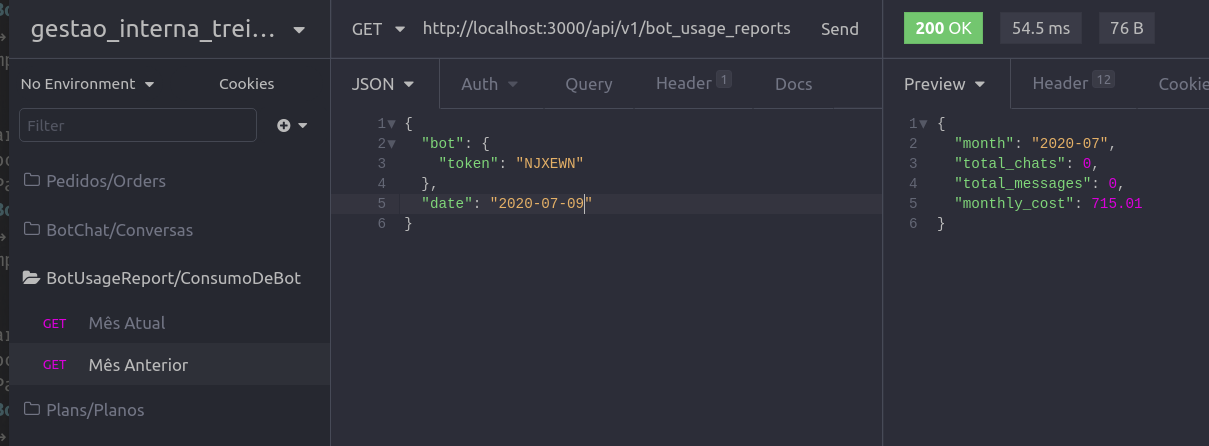
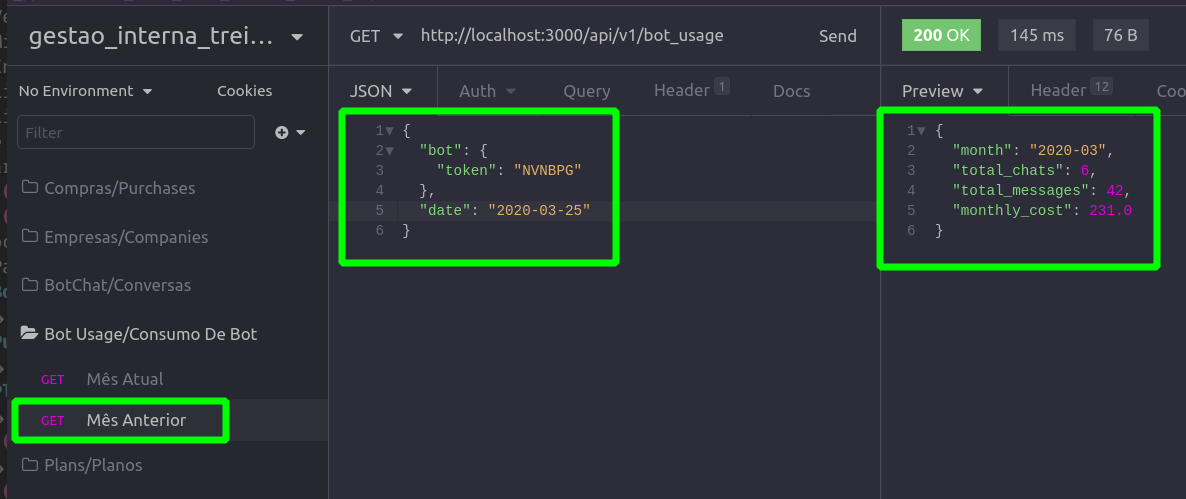
Primeiro review do João.

diff --git a/spec/requests/bot_usage_api_spec.rb b/spec/requests/bot_usage_api_spec.rb
@@ -6,7 +6,7 @@ describe 'User require Bot usage' do
       bot = create(:bot, created_at: 1.day.ago)
       create_list(:bot_chat, 5, :end_conversation, bot: bot, message_count: 3)
 
-      get api_v1_bot_usage_reports_path, params: { bot: { token: bot.token } }
+      get api_v1_bot_usage_path, params: { bot: { token: bot.token } }
 
       json_response = JSON.parse(response.body, symbolize_names: true)
       expect(response).to have_http_status(:ok)
@@ -23,7 +23,7 @@ describe 'User require Bot usage' do
       bot = create(:bot, purchase: purchase, created_at: 1.day.ago)
       create_list(:bot_chat, 4, :end_conversation, bot: bot, message_count: 3)
 
-      get api_v1_bot_usage_reports_path, params: { bot: { token: bot.token } }
+      get api_v1_bot_usage_path, params: { bot: { token: bot.token } }
 
       json_response = JSON.parse(response.body, symbolize_names: true)
       expect(response).to have_http_status(:ok)
@@ -36,21 +36,21 @@ describe 'User require Bot usage' do
     it 'can recieve a date param a generate a report for that month' do
       plan = create(:plan, limit_monthly_chat: 3, limit_monthly_messages: 4,
                            extra_chat_price: 5, extra_message_price: 3.5,
-                           created_at: 2.years.ago)
-      create(:plan_price, plan: plan, created_at: 2.years.ago, value: 83.00)
-      purchase = create(:purchase, plan: plan, created_at: 1.year.ago)
-      bot = create(:bot, purchase: purchase, created_at: 1.year.ago)
+                           created_at: '2020-02-01')
+      create(:plan_price, plan: plan, created_at: '2020-02-09', value: 83.00)
+      purchase = create(:purchase, plan: plan, created_at: '2020-02-10')
+      bot = create(:bot, purchase: purchase, created_at: '2020-02-10')
       create_list(:bot_chat, 6, :end_conversation, bot: bot, message_count: 7,
-                                                   created_at: 11.months.ago)
+                                                   created_at: '2020-03-10')
 
-      get api_v1_bot_usage_reports_path, params: {
+      get api_v1_bot_usage_path, params: {
         bot: { token: bot.token },
-        date: 11.months.ago
+        date: '2020-03-25'
       }
 
       json_response = JSON.parse(response.body, symbolize_names: true)
       expect(response).to have_http_status(:ok)
-      expect(json_response[:month]).to eq(11.months.ago.strftime('%Y-%m'))
+      expect(json_response[:month]).to eq('2020-03')
       expect(json_response[:total_chats]).to eq(6)
       expect(json_response[:total_messages]).to eq(42)
       expect(json_response[:monthly_cost]).to eq(83 + 15 + 38 * 3.5)
@@ -59,31 +59,31 @@ describe 'User require Bot usage' do
     it 'should return unprocessable entity for invalid date format' do
       bot = create(:bot)
 
-      get api_v1_bot_usage_reports_path, params: {
+      get api_v1_bot_usage_path, params: {
         bot: { token: bot.token },
         date: 'yolo'
       }
 
       json_response = JSON.parse(response.body, symbolize_names: true)
       expect(response).to have_http_status(:unprocessable_entity)
-      expect(json_response[:error]).to eq('invalid date')
+      expect(json_response[:error]).to eq('Data não é valida.')
     end
 
     it 'should return unprocessable entity for invalid date' do
-      bot = create(:bot, created_at: 2.months.ago)
+      bot = create(:bot, created_at: '2020-04-11')
 
-      get api_v1_bot_usage_reports_path, params: {
+      get api_v1_bot_usage_path, params: {
         bot: { token: bot.token },
-        date: 3.months.ago
+        date: '2020-03-11'
       }
 
       json_response = JSON.parse(response.body, symbolize_names: true)
       expect(response).to have_http_status(:unprocessable_entity)
-      expect(json_response[:error]).to eq('invalid date')
+      expect(json_response[:error]).to eq('Data não é valida.')
     end
 
     it 'should return not found for an invalid bot token' do
-      get api_v1_bot_usage_reports_path, params: { bot: { token: 'A8M292' } }
+      get api_v1_bot_usage_path, params: { bot: { token: 'A8M292' } }
 
       expect(response).to have_http_status(:not_found)
     end

diff --git a/spec/services/bot_usage_service_spec.rb b/spec/services/bot_usage_service_spec.rb
@@ -1,0 +1,91 @@
+require 'rails_helper'
+
+RSpec.describe BotUsageService do
+  describe 'self.call' do
+    it 'should return bots usage with valid params' do
+      plan = create(:plan, price: 200.00, limit_monthly_chat: 15, limit_monthly_messages: 400,
+                           extra_chat_price: 2.5, extra_message_price: 1.5)
+      purchase = create(:purchase, plan: plan)
+      bot = create(:bot, purchase: purchase, created_at: 1.day.ago)
+      create_list(:bot_chat, 20, :end_conversation, bot: bot, message_count: 100)
+
+      params = { bot: bot, raw_date: nil }
+      results =  described_class.call(params)
+
+      expect(results).to eq({
+                              month: '2020-07',
+                              total_chats: 20,
+                              total_messages: 2000,
+                              monthly_cost: 200 + 5 * 2.5 + 1600 * 1.5
+                            })
+    end
+
+    it 'should raise execption if data is before bot creation' do
+      plan = create(:plan, price: 30.00, limit_monthly_chat: 2, limit_monthly_messages: 5,
+                           extra_chat_price: 2.5, extra_message_price: 1.5, created_at: '2020-07-05')
+      purchase = create(:purchase, plan: plan, created_at: '2020-07-07')
+      bot = create(:bot, purchase: purchase, created_at: '2020-07-07')
+      create_list(:bot_chat, 5, :end_conversation, bot: bot, message_count: 3, created_at: '2020-07-08')
+
+      params = { bot: bot, raw_date: '2020-02-20' }
+      expect { described_class.call(params) }.to raise_error(ArgumentError)
+    end
+
+    it 'should raise execption if date is unparsable' do
+      bot = create(:bot)
+
+      params = { bot: bot, raw_date: 'yolo' }
+      expect { described_class.call(params) }.to raise_error(ArgumentError)
+    end
+
+    it 'should raise execption if without bot' do
+      params = { bot: nil, raw_date: '2020-02-20' }
+
+      expect { described_class.call(params) }.to raise_error(ArgumentError)
+    end
+  end
+
+  describe 'private: monthly_cost' do
+    it 'should the months cost including extra charges' do
+      plan = create(:plan, price: 894.13, limit_monthly_chat: 23, limit_monthly_messages: 123,
+                           extra_chat_price: 23.4, extra_message_price: 0.6)
+      purchase = create(:purchase, plan: plan)
+      bot = create(:bot, purchase: purchase)
+      create_list(:bot_chat, 40, :end_conversation, bot: bot, message_count: 5)
+
+      params = { bot: bot, raw_date: nil }
+      subject = described_class.new(params)
+
+      expect(subject.send(:monthly_cost)).to eq(894.13 + 17 * 23.4 + 77 * 0.6)
+    end
+  end
+
+  describe 'private: total_messages' do
+    it 'should return the total number of sent messages' do
+      bot = create(:bot)
+      create_list(:bot_chat, 39, :end_conversation, bot: bot, message_count: 2)
+      create_list(:bot_chat, 57, :end_conversation, bot: bot, message_count: 4)
+
+      params = { bot: bot, raw_date: nil }
+      subject = described_class.new(params)
+
+      expect(subject.send(:total_messages)).to eq(306)
+    end
+  end
+
+  describe 'private: total_chats' do
+    it 'should return the total number of chats' do
+      bot = create(:bot)
+      create_list(:bot_chat, 8, bot: bot)
+      create_list(:bot_chat, 13, bot: bot)
+      create_list(:bot_chat, 21, bot: bot)
+      create_list(:bot_chat, 34, bot: bot)
+      create_list(:bot_chat, 55, bot: bot)
+
+      params = { bot: bot, raw_date: nil }
+      subject = described_class.new(params)
+
+      expect(subject.send(:total_chats)).to eq(131)
+    end
+  end
+end

diff --git a/app/services/bot_usage_service.rb b/app/services/bot_usage_service.rb
@@ -1,27 +1,46 @@
-class Api::V1::BotUsageReportsController < Api::V1::ApiController
-  rescue_from ArgumentError, with: :invalid_params
+class BotUsageService
+  def self.call(params)
+    new(params).call
+  end
 
-  def generate
-    @bot = Bot.find_by!(token: params[:bot][:token])
-    @start_date = parse_date
-    return invalid_params('invalid date') if invalid_date
+  def initialize(params)
+    @bot = params[:bot]
+    throw ArgumentError unless @bot
 
+    @start_date = parse_date(params[:raw_date])
     @end_date = @start_date.end_of_month
     @plan = @bot.purchase.plan
     @bot_chats = @bot.chats.between(@start_date, @end_date)
+  end
 
-    render status: :ok, json: usage_report
+  def call
+    throw ArgumentError unless @bot
+    throw ArgumentError if invalid_date
+
+    generate
   end
 
   private
 
-  def usage_report
+  def parse_date(raw_date)
+    raw_date ? Date.parse(raw_date).beginning_of_month : Time.zone.today
+  end
+
+  def invalid_date
+    @start_date < @bot.created_at
+  end
+
+  def generate
     {
-      month: @start_date.strftime('%Y-%m'),
+      month: month,
       total_chats: total_chats,
       total_messages: total_messages,
       monthly_cost: monthly_cost
     }
+  end
+
+  def month
+    @start_date.strftime('%Y-%m')
   end
 
   def total_chats
@@ -62,17 +81,5 @@ class Api::V1::BotUsageReportsController < Api::V1::ApiController
 
   def message_limit
     @plan.limit_monthly_messages
-  end
-
-  def parse_date
-    params[:date] ? Date.parse(params[:date]).beginning_of_month : Time.zone.today
-  end
-
-  def invalid_date
-    @start_date < @bot.created_at
-  end
-
-  def invalid_params(exception)
-    render status: :unprocessable_entity, json: { error: exception }
   end
 end

diff --git a/app/controllers/api/v1/bot_usage_controller.rb b/app/controllers/api/v1/bot_usage_controller.rb
@@ -1,0 +1,16 @@
+class Api::V1::BotUsageController < Api::V1::ApiController
+  rescue_from ArgumentError, with: :invalid_params
+
+  def generate
+    @bot = Bot.find_by!(token: params[:bot][:token])
+    @results = BotUsageService.call(bot: @bot, raw_date: params[:date])
+
+    render status: :ok, json: @results
+  end
+
+  private
+
+  def invalid_params
+    render status: :unprocessable_entity, json: { error: t('.invalid_date') }
+  end
+end

diff --git a/app/controllers/api/v1/api_controller.rb b/app/controllers/api/v1/api_controller.rb
@@ -9,8 +9,8 @@ class Api::V1::ApiController < ActionController::API
   def not_found(exception)
     render status: :not_found,
            json: {
-             error: I18n.t('api.v1.errors.not_found',
-                           model: exception.model.constantize.model_name.human)
+             error: t('api.v1.not_found',
+                      model: exception.model.constantize.model_name.human)
            }
   end
 

diff --git a/config/routes.rb b/config/routes.rb
@@ -23,7 +23,7 @@ Rails.application.routes.draw do
       resources :bot_chats, only: %i[create] do
         post :finish, on: :collection
       end
-      get :bot_usage_reports, to: 'bot_usage_reports#generate'
+      get :bot_usage, to: 'bot_usage#generate'
     end
   end
 end

diff --git a/README.md b/README.md
@@ -337,12 +337,11 @@
 
 - **GET**
 - É necessário um GET na seguinte rota:
-  - **/api/v1/bot_usage_reports**
+  - **/api/v1/bot_usage**
 
 #### Possiveis erros
 
 - Status de comunicação devolvido será: **404**
-
   - Bot não encontrada por Token
 
 - Status de comunicação devolvido será: **422**
